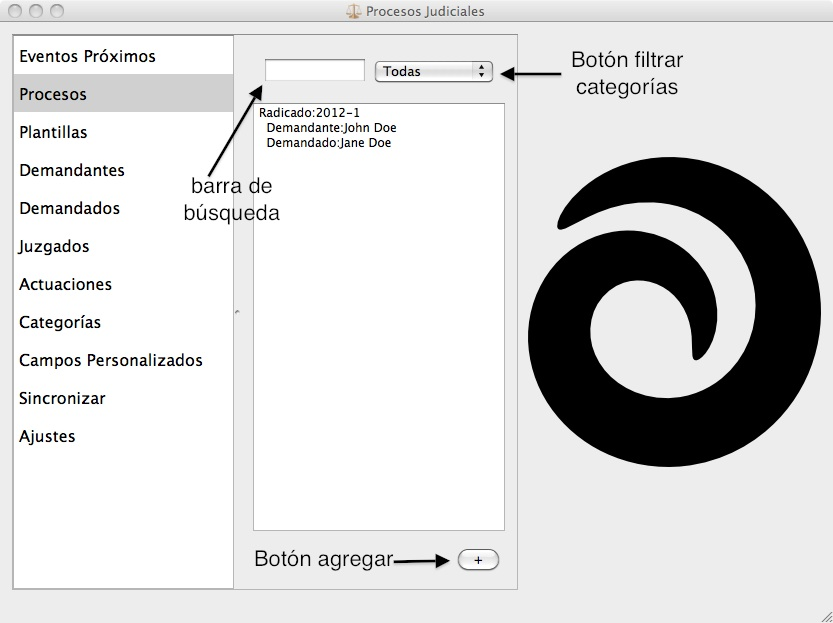
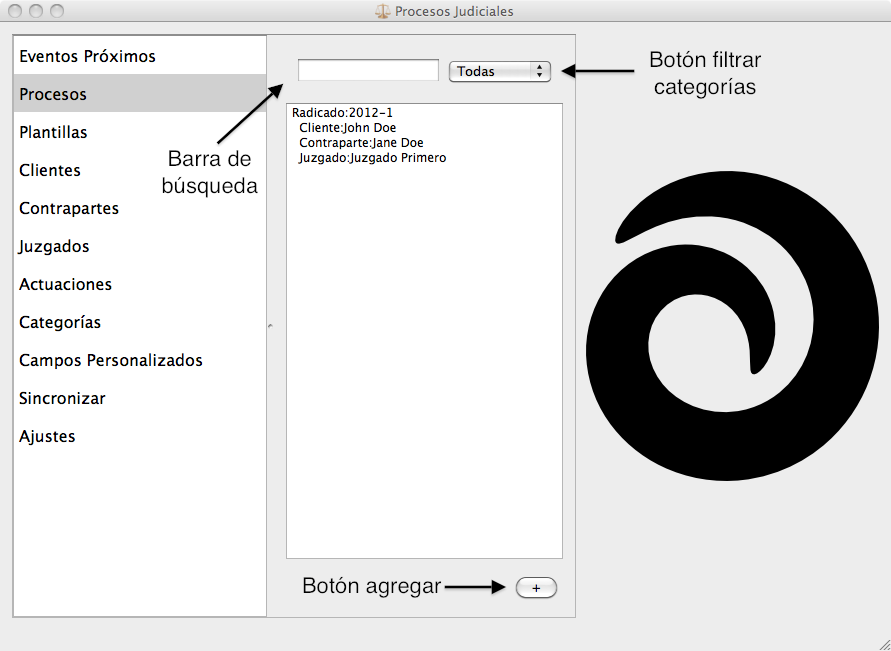
Se cambia Demandantes/Demandados por Clientes/Contrapartes

diff --git a/miscelaneo.tex b/miscelaneo.tex
@@ -8,9 +8,9 @@
 \insertImage{Varios/Menu-Archivo}{Men\'u Archivo>Imprimir}{ArchivoImprimir}
 \insertImage{Varios/AsistenteImpresion}{Asistente impresi\'on}{AsistenteImpresion}
 
-Las opciones que se incluyen para la impresi\'on son los listados de todos los  demandantes, demandados, juzgados, procesos, actuaciones y eventos pr\'oximos. Para esto solo debe seleccionar la casilla en la pantalla de impresi\'on, luego especifica los elementos que quiere imprimir, presionar el bot\'on aceptar, se mostrar\'a la previsualizaci\'on y escoger si se imprime en un archivo PDF o en una impresosra f\'isica.
+Las opciones que se incluyen para la impresi\'on son los listados de todos los  clientes, contrapartes, juzgados, procesos, actuaciones y eventos pr\'oximos. Para esto solo debe seleccionar la casilla en la pantalla de impresi\'on, luego especificar los elementos que quiere imprimir, presionar el bot\'on aceptar, se mostrar\'a la previsualizaci\'on y puede escoger si se imprime en un archivo PDF o en una impresosra f\'isica.
  
-Tambi\'en permite imprimir la informaci\'on de un demandante, demandado, juzgado o procesos de manera detallada. Solamente debe seleccionar la casilla en la pantalla de impresion, luego especificar el elemento que quiere imprimir, presionar el bot\'on aceptar, revisar la previsualizaci\'on y de escoger si se imprime en un archivo PDF o en una impresora f\'isica.
+Tambi\'en permite imprimir la informaci\'on de un cliente, contraparte, juzgado o procesos de manera detallada. Solamente debe seleccionar la casilla en la pantalla de impresion, luego especificar el elemento que quiere imprimir, presionar el bot\'on aceptar, revisar la previsualizaci\'on y escoger si se imprime en un archivo PDF o en una impresora f\'isica.
  
 Finalmente le permite imprimir el codigo QR de un proceso, este c\'odigo es una identificaci\'on \'unica de cada proceso que al escanearlo por medio de la aplicaci\'on Procesos judiciales M\'ovil le permitir\'a identificar r\'apidamente el proceso al que pertenece.
 
@@ -22,7 +22,7 @@ Finalmente le permite imprimir el codigo QR de un proceso, este c\'odigo es una 
 
 El archivo CSV o archivo de valores separados por comas, es un archivo de texto plano que contiene el listado completo de la informaci\'on que usted elija exportar. Esto es \'util si usted necesita procesar en alg\'un otro programa la informaci\'on guardada en \softwareAbogadosDesktop. Esta informaci\'on tambi\'en es accesible por cualquier programa de hoja de c\'alculo como \microsoft \excel.
 
-Para exportar a CSV simplemente haga click en el men\'u \emph{Archivo}, luego seleccione \emph{Exportar} y finalmente presione donde dice \emph{Archivo CSV}(Fig.\ref{fig:ArchivoExportarCSV}), esto lo llevar\'a al asistente de exportaci\'on, escoja lo que desea exportar (procesos, demandantes,demandados,juzgados, actuaciones o eventos pr\'oximos), seleccione el formato y presione \emph{Aceptar}.
+Para exportar a CSV simplemente haga click en el men\'u \emph{Archivo}, luego seleccione \emph{Exportar} y finalmente presione donde dice \emph{Archivo CSV}(Fig.\ref{fig:ArchivoExportarCSV}), esto lo llevar\'a al asistente de exportaci\'on, escoja lo que desea exportar (procesos, clientes, contrapartes, juzgados, actuaciones o eventos pr\'oximos), seleccione el formato y presione \emph{Aceptar}.
    
 \insertImage{Varios/MenuArchivo-Exportar-ArchivoCSV}{Men\'u Archivo>Exportar>Archivo CSV}{ArchivoExportarCSV}
 
@@ -56,5 +56,5 @@ Para realizar una sincronizaci\'on seleccione en el \emph{Men\'u principal}, sig
   
 \insertImage{Varios/Sincronizar}{Pantalla Sincronizar}{Sincronizar}
 
-NOTA: Para evitar errores, es mejor que no edite el mismo registro en ambas partes, por ejemplo, si tiene un demandandate llamado John Doe, que est\'a en el programa de escritorio, y tambi\'en est\'a en el m\'ovil, cuando necesite hacer una modificaci\'on, h\'agala solamente en uno de los dos, y luego sincronice. Si hace la edici\'on en ambas partes antes de sincronizar es posible que genere informaci\'on duplicada, o incluso se pierda informaci\'on. Si tiene alguna duda por favor comun\'iquese con soporte t\'ecnico: \mbox{soporte@ehmsoft.com}.
+NOTA: Para evitar errores, es mejor que no edite el mismo registro en ambas partes, por ejemplo, si tiene un cliente llamado John Doe, que est\'a en el programa de escritorio, y tambi\'en est\'a en el m\'ovil, cuando necesite hacer una modificaci\'on, h\'agala solamente en uno de los dos, y luego sincronice. Si hace la edici\'on en ambas partes antes de sincronizar es posible que genere informaci\'on duplicada, o incluso se pierda informaci\'on. Si tiene alguna duda por favor comun\'iquese con soporte t\'ecnico: \mbox{soporte@ehmsoft.com}.
 

diff --git a/nuevaContraparte.tex b/nuevaContraparte.tex
@@ -1,28 +1,28 @@
-\section{Nuevo demandado}
-\label{sec:nuevoDemandado}
+\section{Nueva contraparte}
+\label{sec:nuevaContraparte}
 Dir\'ijase al men\'u archivo y seleccione \emph{Nuevo}, en este punto se le muestra un listado de los elementos posibles y
-all\'i elija la opci\'on \emph{Demandado}(Fig.\ref{fig:ArchivoNuevoDemandado}). 
+all\'i elija la opci\'on \emph{Contraparte}(Fig.\ref{fig:ArchivoNuevaContraparte}). 
   
-\insertImage{Nuevos/Demandado/MenuArchivo-Nuevo-Demandado}{Men\'u Archivo>Nuevo>Demandado}{ArchivoNuevoDemandado}
+\insertImage{Nuevos/Contraparte/MenuArchivo-Nuevo-Contraparte}{Men\'u Archivo>Nuevo>Contraparte}{ArchivoNuevaContraparte}
 
 Se presentar\'a una pantalla en la que podr\'a introducir toda la informaci\'on
-que puede contener un demandado(Fig.\ref{fig:NuevoDemandado}). 
+que puede contener la contraparte(Fig.\ref{fig:NuevaContraparte}). 
   
-\insertImage{Nuevos/Demandado/NuevoDemandado}{Ventana para crear un demandado}{NuevoDemandado}
+\insertImage{Nuevos/Contraparte/NuevaContraparte}{Ventana para crear contraparte}{NuevaContraparte}
 
 \subsection{Agregando campos personalizados}
-\label{sec:agregarCamposDemandado}
+\label{sec:agregarCamposContraparte}
 Recuerde que en cualquier momento puede adicionar un campo personalizado para guardar informaci\'on con un mayor nivel de detalle, este campo se crea presionando el bot\'on Agregar('+') y seleccionando el campo deseado.
 
 \subsection{Modificando campos personalizados}
-\label{sec:modificarCamposDemandado}
+\label{sec:modificarCamposContraparte}
 Sit\'ue el cursor sobre el campo personalizado que desea modificar y haga click derecho, despu\'es seleccione \emph{Editar},
 se presentar\'a una pantalla en la que podr\'a modificar cada caracter\'istica
 del campo personalizado. Esta pantalla se profundiza en la secci\'on
 \ref{sec:verCampo} (Pag.\pageref{sec:verCampo}).
 
 \subsection{Eliminando campos personalizados}
-\label{sec:eliminarCamposDemandado}
+\label{sec:eliminarCamposContraparte}
 Sit\'ue el cursor sobre el campo personalizado que desea eliminar y haga click derecho, despu\'es seleccione \emph{Eliminar}.
 
 \footnote{El campo Nombre se considera obligatorio y el campo Tel\'efono se

diff --git a/nuevoCliente.tex b/nuevoCliente.tex
@@ -1,28 +1,28 @@
-\section{Nuevo demandante}
-\label{sec:nuevoDemandante}
+\section{Nuevo cliente}
+\label{sec:nuevoCliente}
 Dir\'ijase al men\'u archivo y seleccione \emph{Nuevo}, en este punto se le muestra un listado de los elementos posibles y
-all\'i elija la opci\'on \emph{Demandante}(Fig.\ref{fig:ArchivoNuevoDemandante}). 
+all\'i elija la opci\'on \emph{Cliente}(Fig.\ref{fig:ArchivoNuevoCliente}). 
   
-\insertImage{Nuevos/Demandante/MenuArchivo-Nuevo-Demandante}{Men\'u Archivo>Nuevo>Demandante}{ArchivoNuevoDemandante}
+\insertImage{Nuevos/Cliente/MenuArchivo-Nuevo-Cliente}{Men\'u Archivo>Nuevo>Cliente}{ArchivoNuevoCliente}
 
 Se presentar\'a una pantalla en la que podr\'a introducir toda la informaci\'on
-que puede contener un demandante(Fig.\ref{fig:NuevoDemandante}). 
+que puede contener un cliente(Fig.\ref{fig:NuevoCliente}). 
   
-\insertImage{Nuevos/Demandante/NuevoDemandante}{Ventana para crear un demandante}{NuevoDemandante}
+\insertImage{Nuevos/Cliente/NuevoCliente}{Ventana para crear un Cliente}{NuevoCliente}
 
 \subsection{Agregando campos personalizados}
-\label{sec:agregarCamposDemandante}
+\label{sec:agregarCamposCliente}
 Recuerde que en cualquier momento puede adicionar un campo personalizado para guardar informaci\'on con un mayor nivel de detalle, este campo se crea presionando el bot\'on Agregar('+') y seleccionando el campo deseado.
 
 \subsection{Modificando campos personalizados}
-\label{sec:modificarCamposDemandante}
+\label{sec:modificarCamposCliente}
 Sit\'ue el cursor sobre el campo personalizado que desea modificar y haga click derecho, despu\'es seleccione \emph{Editar},
 se presentar\'a una pantalla en la que podr\'a modificar cada caracter\'istica
 del campo personalizado. Esta pantalla se profundiza en la secci\'on
 \ref{sec:verCampo} (Pag.\pageref{sec:verCampo}).
 
 \subsection{Eliminando campos personalizados}
-\label{sec:eliminarCamposDemandante}
+\label{sec:eliminarCamposCliente}
 Sit\'ue el cursor sobre el campo personalizado que desea eliminar y haga click derecho, despu\'es seleccione \emph{Eliminar}.
 
 \footnote{El campo Nombre se considera obligatorio y el campo Tel\'efono se

diff --git a/nuevaPlantilla.tex b/nuevaPlantilla.tex
@@ -14,17 +14,17 @@ caracter\'isticas de cada campo:
 \begin{description}
 \item[Nombre:]Es un campo de texto usado para diferenciar la plantilla, por lo
 tanto se considera obligatorio ingresarlo.
-\item[Demandante:]Es una etiqueta no editable que muestra el demandante
+\item[Cliente:]Es una etiqueta no editable que muestra el cliente
 seleccionado, para agregarlo solamente haga click sobre este
 \footnote{Tambi\'en puede hacerlo con click derecho y seleccionando \emph{cambiar}.}
 e inmediatamente se
-le mostrar\'a un listado con los demandantes existentes del cual podr\'a
+le mostrar\'a un listado con los clientes existentes del cual podr\'a
 seleccionar alguno.
-\item[Demandado:]Es una etiqueta no editable que muestra el demandado
-seleccionado, para cambiarlo solamente haga click sobre este
+\item[Contraparte:]Es una etiqueta no editable que muestra la contraparte
+seleccionada, para cambiarlo solamente haga click sobre este
 \footnotemark[\value{footnote}]
 e inmediatamente
-se le mostrar\'a un listado con los demandados existentes del cual podr\'a
+se le mostrar\'a un listado con las contrapartes existentes del cual podr\'a
 seleccionar alguno.
 \item[Juzgado:]Es una etiqueta no editable que muestra el juzgado
 seleccionado, para cambiarlo solamente haga click sobre este

diff --git a/nuevoProceso.tex b/nuevoProceso.tex
@@ -13,17 +13,17 @@ que puede contener un proceso(Fig.\ref{fig:NuevoProceso}).
  A continuaci\'on se describen las
 caracter\'isticas de cada campo:
 \begin{description}
-\item[Demandante:]Es una etiqueta no editable que muestra el demandante
+\item[Cliente:]Es una etiqueta no editable que muestra el cliente
 seleccionado, para agregarlo solamente haga click sobre este
 \footnote{Tambi\'en puede hacerlo con click derecho y seleccionando \emph{cambiar}.}
 e inmediatamente se
-le mostrar\'a un listado con los demandantes existentes del cual podr\'a
+le mostrar\'a un listado con los clientes existentes del cual podr\'a
 seleccionar alguno.
-\item[Demandado:]Es una etiqueta no editable que muestra el demandado
-seleccionado, para cambiarlo solamente haga click sobre este
+\item[Contraparte:]Es una etiqueta no editable que muestra la contraparte
+seleccionada, para cambiarlo solamente haga click sobre este
 \footnotemark[\value{footnote}]
 e inmediatamente
-se le mostrar\'a un listado con los demandados existentes del cual podr\'a
+se le mostrar\'a un listado con las contrapartes existentes del cual podr\'a
 seleccionar alguno.
 \item[Juzgado:]Es una etiqueta no editable que muestra el juzgado
 seleccionado, para cambiarlo solamente haga click sobre este

diff --git a/intro.tex b/intro.tex
@@ -3,7 +3,7 @@
 \softwareAbogadosDesktop es una aplicaci\'on para ordenadores \\con
 sistemas operativos \microsoft \windows XP o superior, \macos{10.6} o superior y \linux. 
 
-Con esta aplicaci\'on usted puede llevar un registro ordenado y de f\'acil acceso de sus procesos, incluyendo un listado de demandantes, demandados, juzgados, actuaciones y dem\'as elementos importantes
+Con esta aplicaci\'on usted puede llevar un registro ordenado y de f\'acil acceso de sus procesos, incluyendo un listado de clientes, contrapartes, juzgados, actuaciones y dem\'as elementos importantes
 en un proceso, con posibilidades de sincronizarlo con \softwareAbogadosMobile.
 
 Adicionalmente podr\'a tener todas sus actuaciones presentes como citas en el

diff --git a/creandoLaInformacion.tex b/creandoLaInformacion.tex
@@ -18,8 +18,8 @@ m\'etodos principales:
 A continuaci\'on se describe el procedimiento para cada elemento usado por la
 aplicaci\'on.
 
-\input{nuevoDemandante}
-\input{nuevoDemandado}
+\input{nuevoCliente}
+\input{nuevaContraparte}
 \input{nuevoJuzgado}
 \input{nuevoCampo}
 \input{nuevaCategoria}
